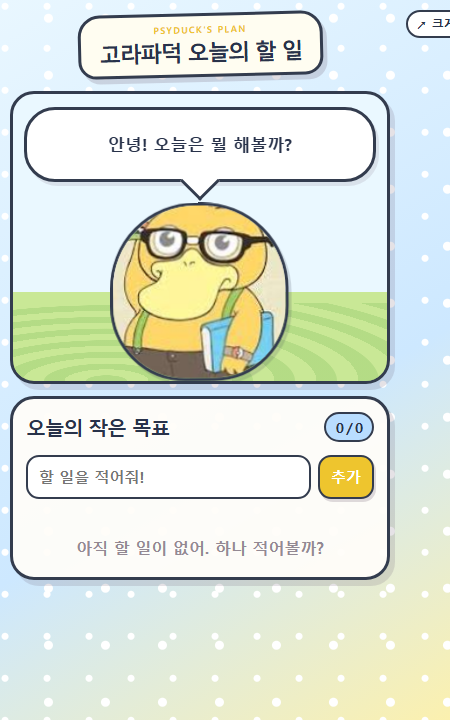
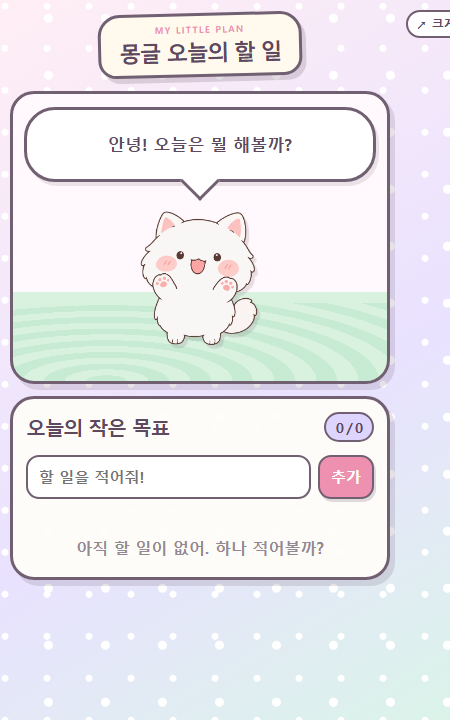
round1: 몽글 버전으로 갱신

diff --git a/round1/boramae_park/todo.html b/round1/boramae_park/todo.html
@@ -3,25 +3,25 @@
 <head>
 <meta charset="utf-8">
 <meta name="viewport" content="width=device-width, initial-scale=1">
-<title>고라파덕 오늘의 할 일</title>
+<title>몽글 오늘의 할 일</title>
 <style>
-  :root { --ink:#28324a; --pink:#fff0a3; --pink-deep:#eec52e; --cream:#fffdf1; --lavender:#b9ddff; --mint:#e5f1b5; --red:#e76b4d; --line:#333c4e; }
+  :root { --ink:#5d4a5e; --pink:#ffd9e6; --pink-deep:#ee91b1; --cream:#fff9ee; --lavender:#ded5ff; --mint:#cbf0df; --red:#ed6f91; --line:#715f72; }
   * { box-sizing:border-box; }
-  body { margin:0; min-height:100vh; color:var(--ink); font-family:"Malgun Gothic","Apple SD Gothic Neo",sans-serif; font-weight:700; background:radial-gradient(circle at 12% 15%,#fff 0 3px,transparent 4px),radial-gradient(circle at 85% 32%,#fff 0 4px,transparent 5px),linear-gradient(150deg,#e9f7ff,#cde8ff 58%,#fff1a8); background-size:42px 42px,57px 57px,auto; }
+  body { margin:0; min-height:100vh; color:var(--ink); font-family:"Malgun Gothic","Apple SD Gothic Neo",sans-serif; font-weight:700; background:radial-gradient(circle at 12% 15%,#fff 0 3px,transparent 4px),radial-gradient(circle at 85% 32%,#fff 0 4px,transparent 5px),linear-gradient(150deg,#ffeef4,#e9e2ff 58%,#d9f5e7); background-size:42px 42px,57px 57px,auto; }
   header { text-align:center; padding:21px 14px 7px; }
   .title-card { display:inline-block; padding:10px 24px 12px; border:3px solid var(--line); border-radius:22px 22px 18px 18px; background:var(--cream); box-shadow:4px 5px 0 rgba(113,95,114,.22); transform:rotate(-1.4deg); }
   .title-card small { display:block; color:var(--pink-deep); font-size:11px; letter-spacing:.14em; }
   .title-card h1 { margin:2px 0 0; font-size:27px; letter-spacing:-.07em; }
   main { max-width:960px; margin:auto; padding:13px 13px 28px; display:grid; grid-template-columns:1fr 1.08fr; gap:18px; align-items:start; }
   .panel { border:3px solid var(--line); border-radius:24px; background:rgba(255,253,249,.94); box-shadow:5px 6px 0 rgba(113,95,114,.18); }
-  .stage { min-height:455px; padding:18px 15px 0; overflow:hidden; position:sticky; top:12px; background:linear-gradient(180deg,#eaf8ff 0 69%,#c9e896 69%); }
-  .stage::after { content:""; position:absolute; inset:auto 0 0; height:78px; background:repeating-radial-gradient(ellipse at 25% 100%,#acd77f 0 20px,transparent 21px 42px); opacity:.72; }
+  .stage { min-height:455px; padding:18px 15px 0; overflow:hidden; position:sticky; top:12px; background:linear-gradient(180deg,#fff8fc 0 69%,#d9f1df 69%); }
+  .stage::after { content:""; position:absolute; inset:auto 0 0; height:78px; background:repeating-radial-gradient(ellipse at 25% 100%,#c1e8ce 0 20px,transparent 21px 42px); opacity:.72; }
   .bubble { position:relative; z-index:2; min-height:105px; display:flex; align-items:center; justify-content:center; padding:17px 20px; border:3px solid var(--line); border-radius:31px; background:#fff; text-align:center; font-size:20px; line-height:1.45; word-break:keep-all; box-shadow:3px 4px 0 rgba(113,95,114,.14); }
   .bubble::after { content:""; position:absolute; bottom:-16px; left:50%; width:25px; height:25px; background:#fff; border-right:3px solid var(--line); border-bottom:3px solid var(--line); transform:translateX(-50%) rotate(45deg); }
   .bubble.shout { background:#fff2a8; animation:wobble .45s 2; }
   .bubble b { color:#e05b85; }
   .char-wrap { position:relative; z-index:1; height:300px; margin-top:30px; display:flex; justify-content:center; align-items:flex-end; }
-  .mascot { position:relative; width:238px; height:238px; object-fit:cover; border:4px solid var(--line); border-radius:48% 48% 42% 42%; transform-origin:bottom center; filter:drop-shadow(4px 5px 0 rgba(51,60,78,.17)); }
+  .mascot { position:relative; width:238px; height:286px; object-fit:contain; transform-origin:bottom center; filter:drop-shadow(4px 5px 0 rgba(113,95,114,.17)); }
   .mascot .ear { position:absolute; top:0; width:58px; height:89px; border:3px solid var(--line); border-radius:50% 50% 42% 42%; background:var(--face); z-index:0; }
   .mascot .ear::after { content:""; position:absolute; inset:12px 16px 18px; border-radius:50%; background:#ffdce7; }
   .mascot .ear.left { left:17px; transform:rotate(-17deg); } .mascot .ear.right { right:17px; transform:rotate(17deg); }
@@ -48,12 +48,12 @@
 </style>
 </head>
 <body>
-<header><button class="open-full" id="openFull" type="button">↗ 크게 보기</button><div class="title-card"><small>PSYDUCK'S PLAN</small><h1>고라파덕 오늘의 할 일</h1></div></header>
+<header><button class="open-full" id="openFull" type="button">↗ 크게 보기</button><div class="title-card"><small>MY LITTLE PLAN</small><h1>몽글 오늘의 할 일</h1></div></header>
 <main>
   <section class="panel stage" aria-live="polite">
     <div class="bubble" id="bubble"><span id="bubbleText">안녕! 오늘은 뭘 해볼까?</span></div>
     <div class="sparkle" id="sfx" style="left:24px; top:137px;">✦</div><div class="sparkle" id="sfx2" style="right:25px; top:186px;">♥</div>
-    <div class="char-wrap"><img id="mascot" class="mascot" src="img/psyduck-reference.jpg" alt="안경과 책가방을 든 고라파덕"></div>
+    <div class="char-wrap"><img id="mascot" class="mascot" src="img/chiikawa-mascot.png" alt="먼작귀 애니메이션 느낌의 작은 흰 캐릭터"></div>
   </section>
   <section class="panel board"><h2>오늘의 작은 목표 <span class="badge" id="count">0 / 0</span></h2><form id="form" autocomplete="off"><input id="input" placeholder="할 일을 적어줘!" maxlength="60"><button class="btn btn-add" type="submit">추가</button></form><ul id="list"></ul><p class="empty" id="empty">아직 할 일이 없어. 하나 적어볼까?</p></section>
 </main>

diff --git a/round1/boramae_park/todo.js b/round1/boramae_park/todo.js
@@ -1,5 +1,5 @@
-const NAME = "고라파덕";
-const KEY = "psyduck-todo-v1";
+const NAME = "몽글";
+const KEY = "mongle-todo-v1";
 const $ = id => document.getElementById(id);
 
 const isPopup = !new URLSearchParams(location.search).has("full");
@@ -52,7 +52,7 @@ function render() {
   list.replaceChildren();
   todos.forEach(todo => {
     const item = document.createElement("li"); if (todo.done) item.className = "done";
-    item.innerHTML = `<div class="mini" aria-hidden="true"><img src="img/psyduck-reference.jpg" alt=""></div><div class="item-bubble" title="눌러서 친구에게 말하기">${esc(todo.text)}${todo.done ? '<span class="stamp">해냈다!</span>' : ""}</div>${todo.done ? '<button class="btn btn-undo" type="button" data-act="undo">되돌리기</button>' : '<button class="btn btn-ok" type="button" data-act="ok">완료</button>'}<button class="del" type="button" data-act="del" aria-label="삭제">✕</button>`;
+    item.innerHTML = `<div class="mini" aria-hidden="true"><img src="img/chiikawa-mascot.png" alt=""></div><div class="item-bubble" title="눌러서 친구에게 말하기">${esc(todo.text)}${todo.done ? '<span class="stamp">해냈다!</span>' : ""}</div>${todo.done ? '<button class="btn btn-undo" type="button" data-act="undo">되돌리기</button>' : '<button class="btn btn-ok" type="button" data-act="ok">완료</button>'}<button class="del" type="button" data-act="del" aria-label="삭제">✕</button>`;
     item.querySelector(".item-bubble").onclick = () => todo.done ? say(`<b>${esc(todo.text)}</b>, 이미 해냈지! 정말 잘했어!`) : sayToday(todo.text);
     item.querySelectorAll("button").forEach(button => button.onclick = () => act(todo, button.dataset.act));
     list.append(item);

diff --git a/round1/boramae_park/README.md b/round1/boramae_park/README.md
@@ -1,8 +1,8 @@
-# 고라파덕 오늘의 할 일
+# 몽글 오늘의 할 일
 
 ## 한 줄 소개
 
-고라파덕의 응원과 함께 오늘의 할 일을 관리하는 크롬 확장 프로그램입니다.
+몽글의 응원과 함께 오늘의 할 일을 관리하는 크롬 확장 프로그램입니다.
 
 ## 누구를 위해 만들었나요
 
@@ -12,7 +12,7 @@
 
 - 할 일을 추가하고 완료하거나 삭제할 수 있습니다.
 - 완료한 할 일의 개수를 확인하고 완료를 되돌릴 수 있습니다.
-- 고라파덕이 할 일을 말해 주고 완료하면 응원합니다.
+- 몽글이 할 일을 말해 주고 완료하면 응원합니다.
 - 작성한 목록을 브라우저에 저장하고 큰 화면으로 열 수 있습니다.
 
 ## 화면
@@ -21,7 +21,7 @@
 
 ## 강사 예시에서 바꾼 점
 
-- 고라파덕 이미지와 말풍선, 응원 애니메이션을 넣었습니다.
+- 몽글 이미지와 말풍선, 응원 애니메이션을 넣었습니다.
 - 완료 개수 표시와 완료 되돌리기, 큰 화면 보기 기능을 추가했습니다.
 
 ## 써 보는 법
